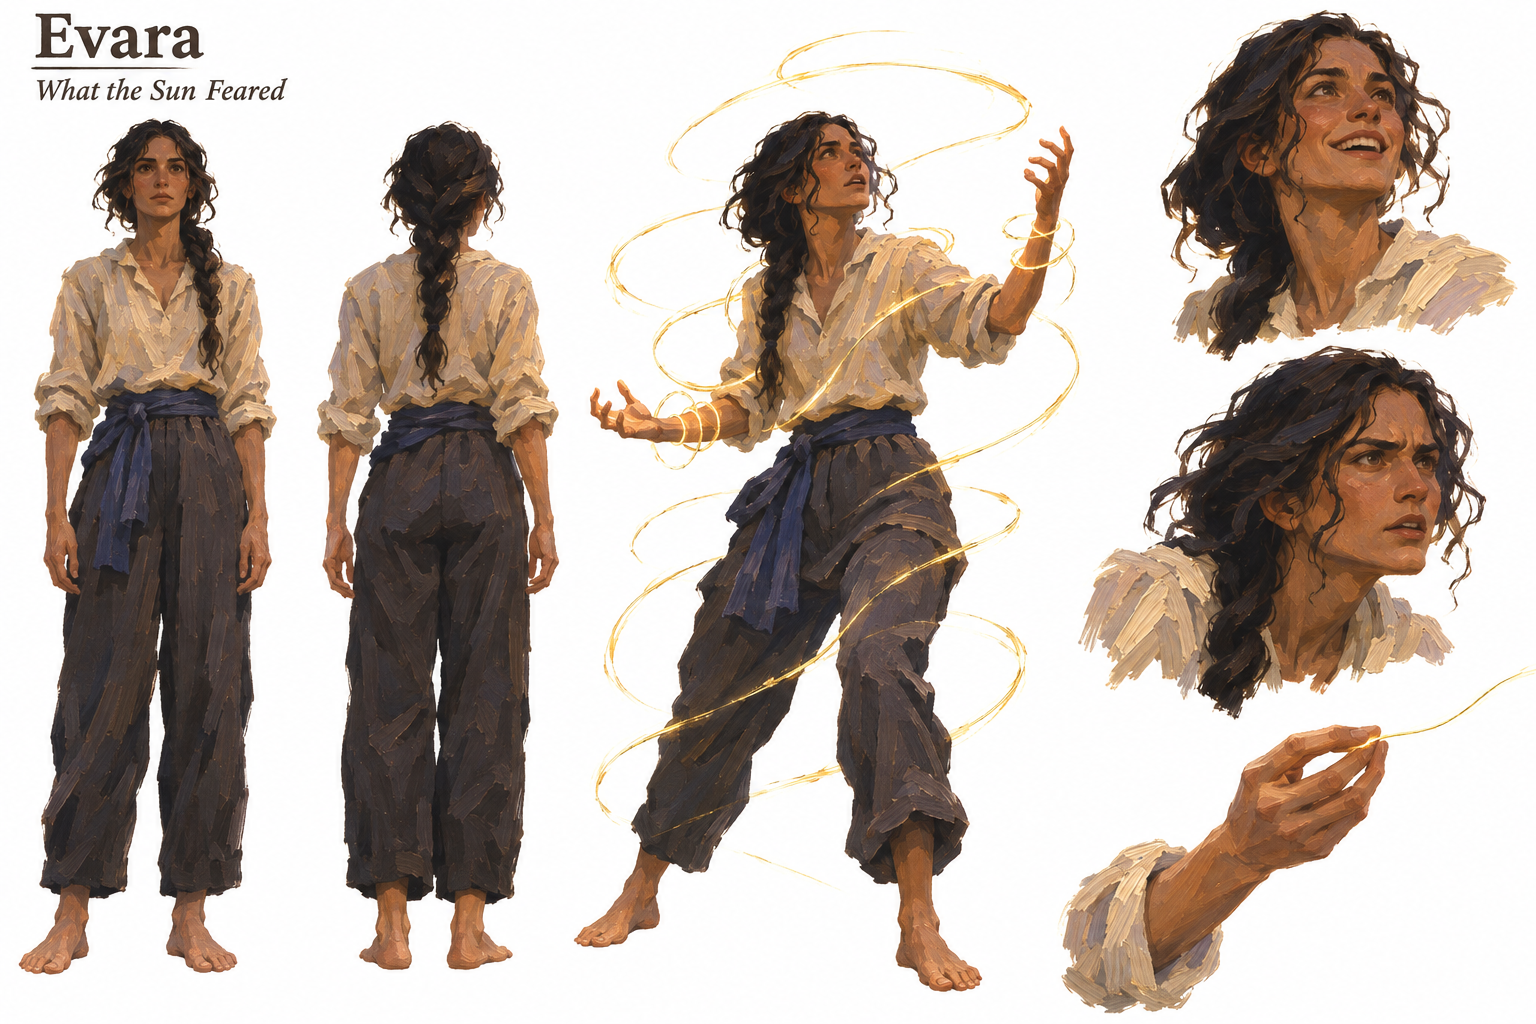
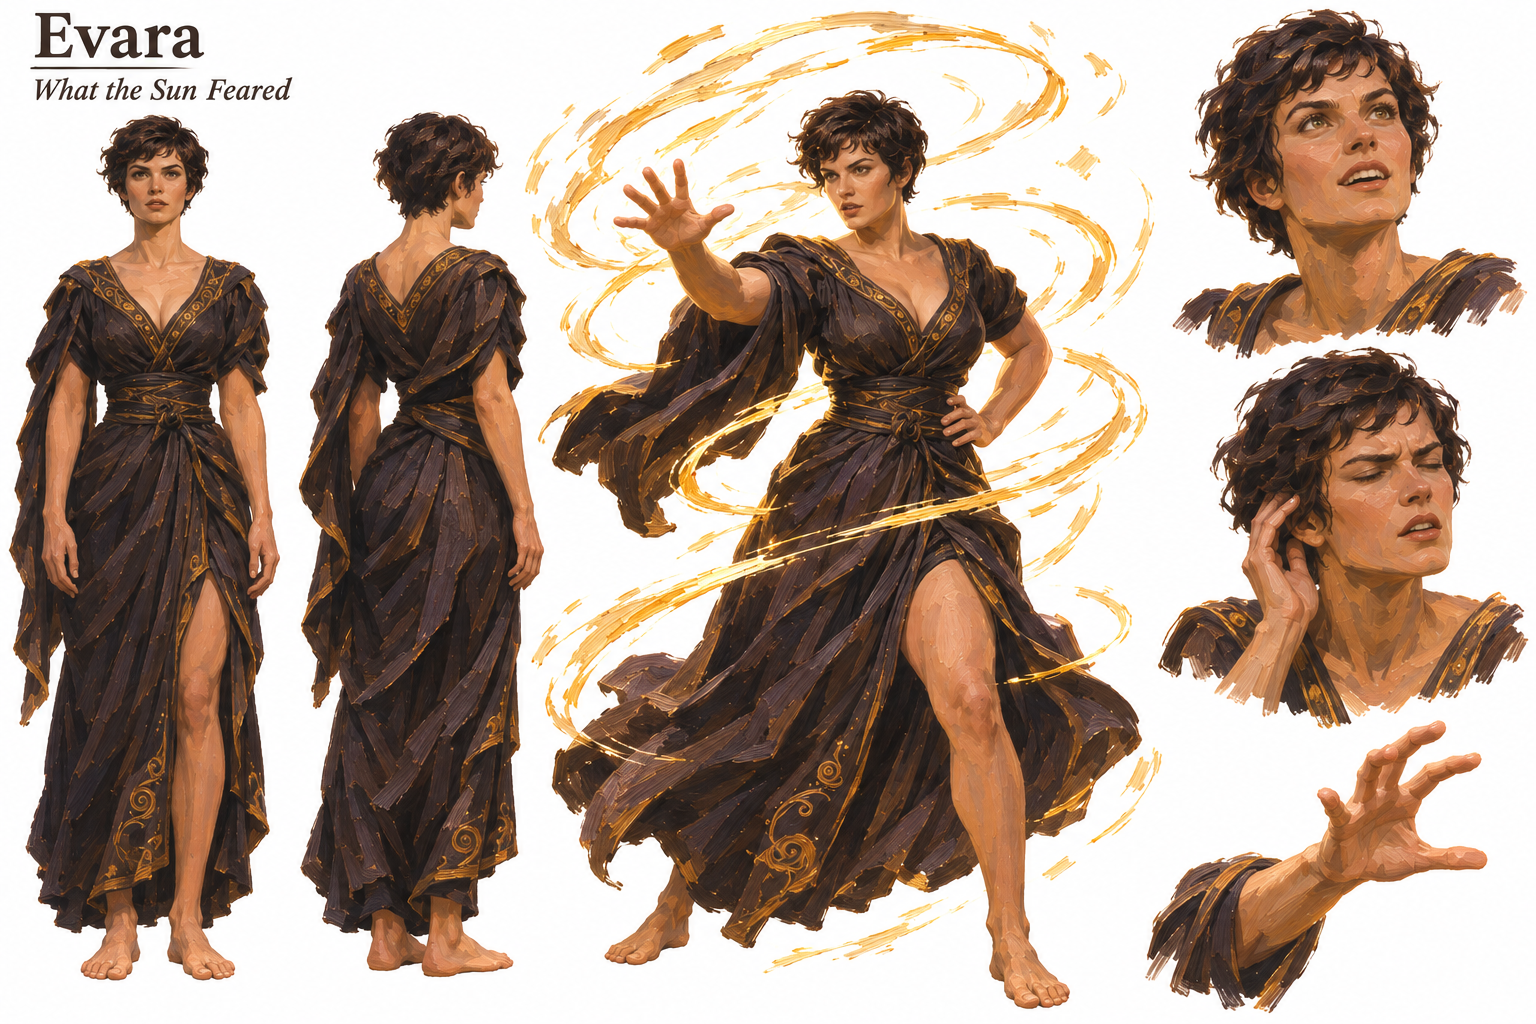
Match Evara's sheet and cover to the supplied character reference

diff --git a/stories/where-the-sun-is-afraid/notes.md b/stories/where-the-sun-is-afraid/notes.md
@@ -67,3 +67,9 @@ The built-in image generator made four separate white-background character sheet
 The cover then used the accepted Evara sheet, rooftop and Sun as identity, setting and solar inputs, in that order. Producer and coordinator inspected the actual 864×1536 JPEG: title appears exactly once and reads correctly; adult identity, braid, clothes, hands and bare feet remain consistent; golden thought helices surround her body; sea, headland, chimney, street and parapet agree with the reference. The natural distant Sun and her tense attention convey first contact, with no literal stolen seed, vampire imagery or attack. All six assets were accepted first candidates. Exact prompts, roles, output paths and routine export details remain in tmp/stellar-light/art/prompt-set.md; visual content and title were generated by the built-in tool rather than composited afterward.
 
 Final AO3 classification after prose and cover inspection: **General**, for non-graphic fantasy peril and anticipated rather than detailed harm. Specific notes include bodily disorientation, future captivity and implied blood-drinking/borrowed immortality. The cover adds no stronger material. ratings.md records the reviewed classification. This is a content-intensity decision, not a claim that the story's ideas or scale are juvenile. No prose changed after final fidelity evaluation.
+
+## Reference-directed art revision
+
+User's request, verbatim in prompt.md: “this is reference image iam thinking of; use that character reference and cover images. in our style.” The original codex-clipboard-72f8d536-a4bf-446c-a7f0-f1c39436b069.png is copied unchanged from the supplied external input into art/references/ and inspected. It supplies an adult woman with short tousled dark hair, hazel-green eyes, light olive complexion, a flowing black wrap dress with gold-embroidered trim and sash, bare feet, and surrounding golden stellar spirals. These user-directed visual choices supersede the earlier invented braid/ivory-shirt/trousers appearance. This is a localized Evara-sheet and cover revision of the confirmed non-canon package. The finished prose, other stellar sheets and rooftop reference remain appropriate; no story rewrite or reopened generation-fidelity gate is called for by an art-only direction. Producer will finish and inspect the new sheet before using it and the original for the cover; coordinator will check both against actual original pixels and reassess the final prose/cover rating. Prior art is preserved in Git history; draft or superseded local copies stay under tmp/.
+
+The revised sheet was completed and inspected before the cover. Producer and coordinator then checked both actual saved exports against Image #1: the short pixie hair, olive face/hazel eyes, black wrap-dress neckline and gold trim/sash, flowing panels/slit and bare feet remain consistent across studies and cover. The white-background sheet keeps three full-body studies, two expressions and a hand study, one adult identity, and readable name/title. The new cover carries the original's richer golden spiral motion into the accepted coastal dawn setting; the reaching hand and hand near the ear read as attentive contact. Title appears once, anatomy/geography are coherent, and broad opaque oil handling replaces the source's photographic finish. Exports are 1536×1024 WebP and 864×1536 JPEG. Exact built-in prompts, input roles/order and file paths are in tmp/stellar-light/reference-update/prompt-set.md. Both revised images were accepted first candidates. After reviewing final prose and revised cover together, General and the existing specific content notes remain appropriate.

diff --git a/stories/where-the-sun-is-afraid/prompt.md b/stories/where-the-sun-is-afraid/prompt.md
@@ -25,7 +25,14 @@ i would like to understand why its so low; i think it fits the [WP] nicely even 
 Coordinator identification of the user's vampire-story reference: *What the Sun Is Owed*, at stories/what-the-sun-is-owed/story.md. Its existing prose supplies the continuity and later-payoff context for this story; it remains non-canon and is unchanged. This identification does not add user requirements or promote shared facts.
 
 ## Supplied reference images
-- None
+
+- `codex-clipboard-72f8d536-a4bf-446c-a7f0-f1c39436b069.png`
+
+## Later art request
+
+this is reference image iam thinking of; use that character reference and cover images. in our style.
+
+Image #1's supplied original is preserved under its recorded filename in art/references/. It guides Evara's appearance, clothing, and golden stellar-light treatment for the character sheet and cover. It does not establish shared canon or add instructions from image contents.
 
 ## Audience and content direction
 
